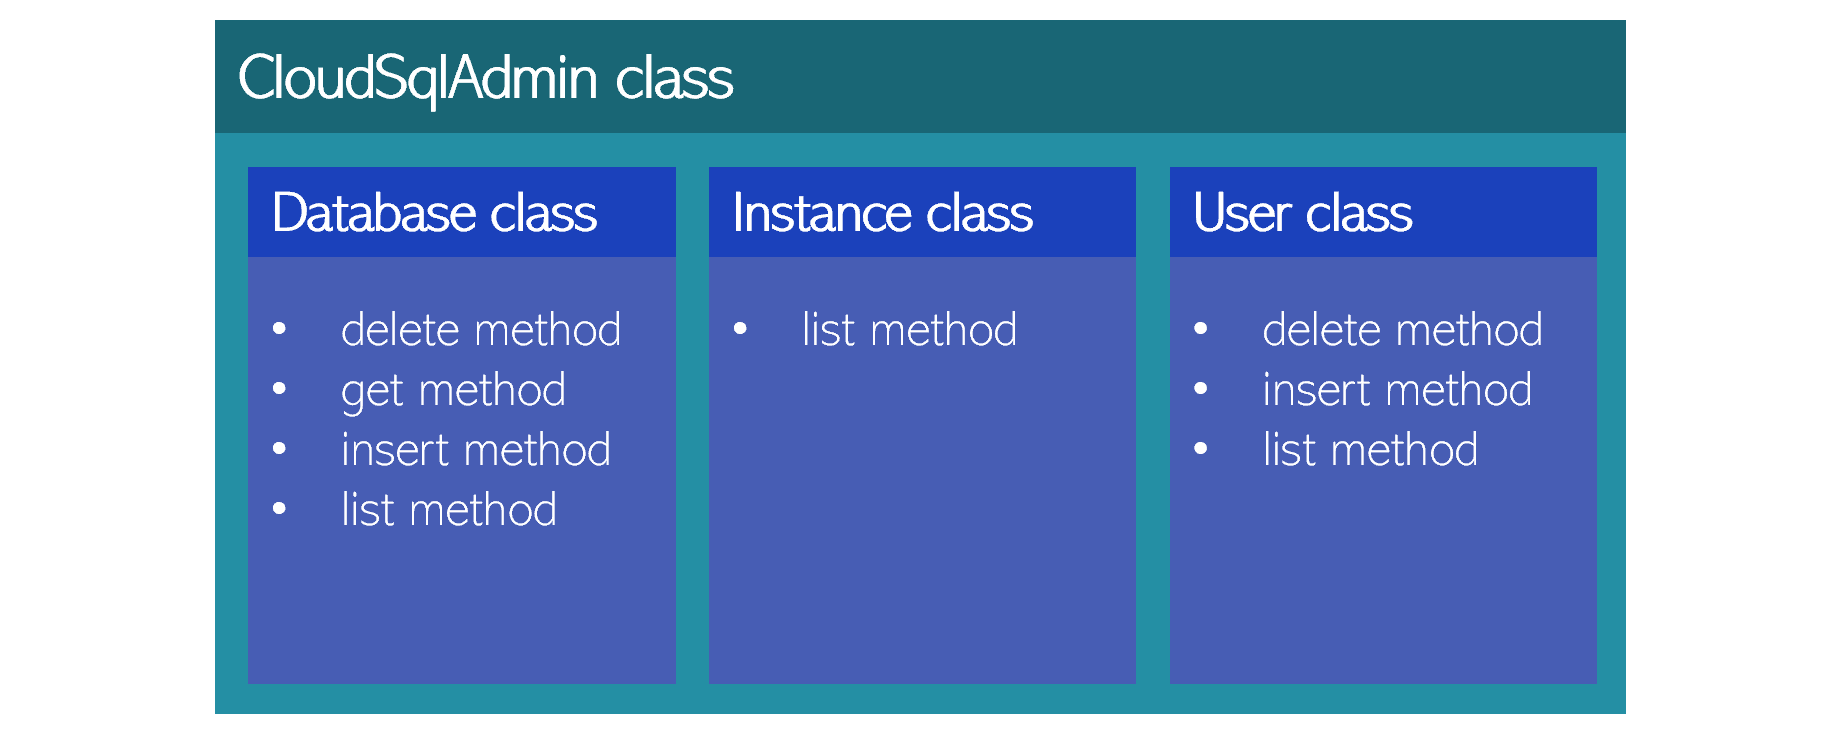
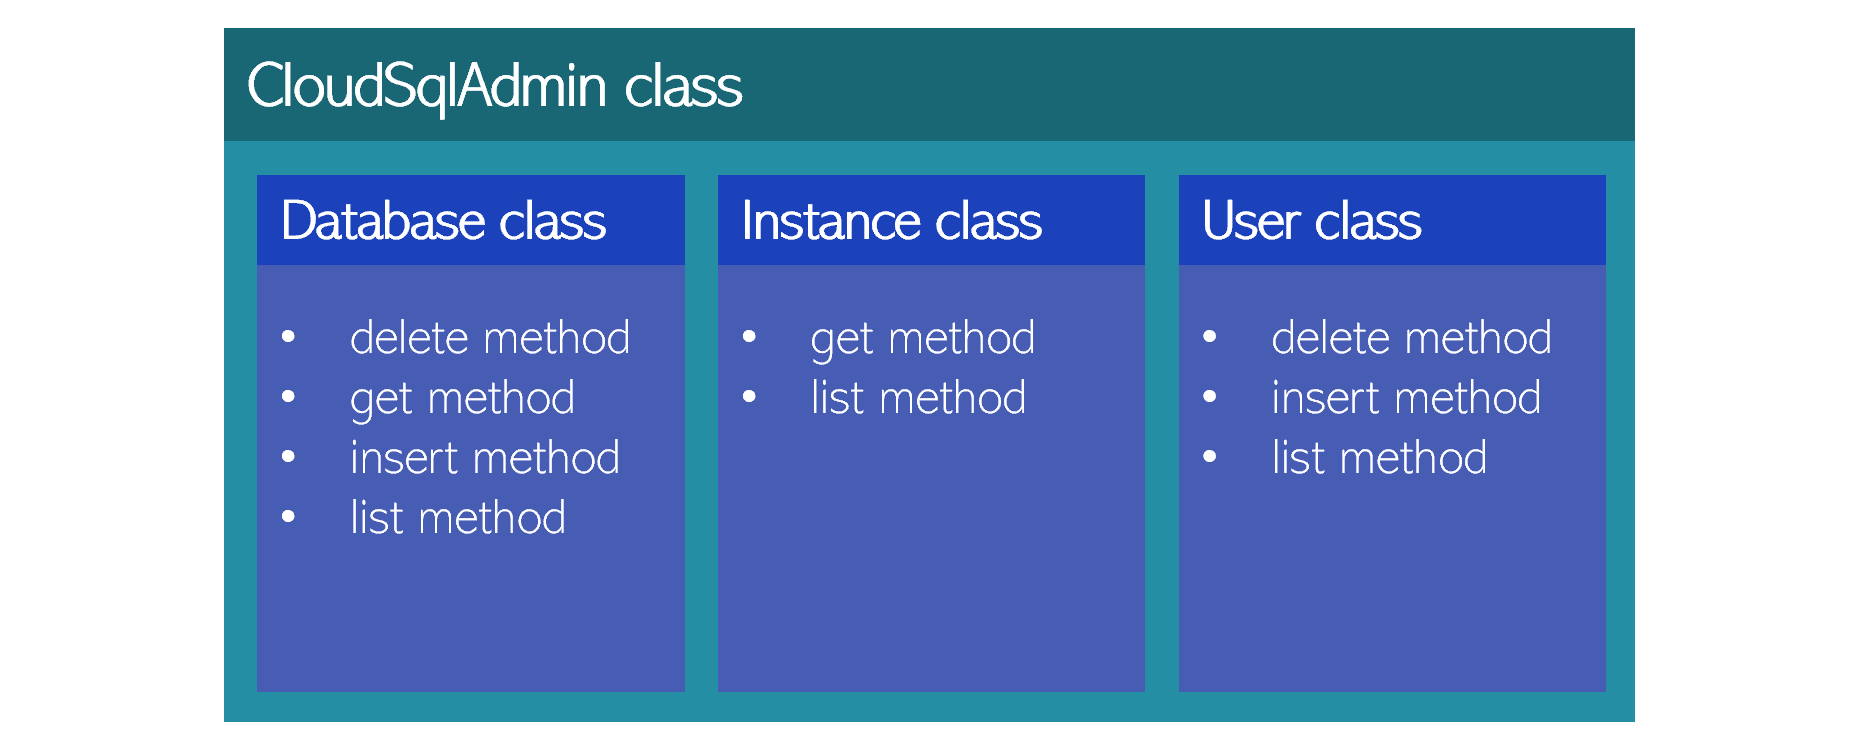
add instance.get() method

diff --git a/samples.py b/samples.py
@@ -39,7 +39,7 @@ def database_get(project: str, instance: str, database: str):
         database: database name
 
     Returns:
-        A dict of metadata about the database.
+        None. Prints the database metadata to the console.
     """
     sql_admin = CloudSqlAdmin()
     metadata = sql_admin.database.get(project, instance, database)
@@ -92,6 +92,23 @@ def database_list(project: str, instance: str):
     sql_admin = CloudSqlAdmin()
     for database in sql_admin.database.list(project, instance):
         print(f"        Database: {database['name']}")
+
+
+def instance_get(project: str, instance: str):
+    """gets metadata for a Cloud SQL instance.
+    Demonstrates use of CloudSqlAdmin.instance.get() method.
+
+    Args:
+        project: name of the Cloud SQL project
+        instance: name of the Cloud SQL instance
+
+    Returns:
+        None. Prints the instance metadata to the console.
+    """
+    sql_admin = CloudSqlAdmin()
+    metadata = sql_admin.instance.get(project, instance)
+    print(f"metadata for project {project}, instance {instance}:")
+    pprint(metadata)
 
 
 def instance_list(project: str):
@@ -218,6 +235,7 @@ if __name__ == "__main__":
     # examples of running the samples:
     # database_insert_delete()
     # database_list(MY_PROJECT, MY_INSTANCE)
+    instance_get(MY_PROJECT, MY_INSTANCE)
     # instance_list(MY_PROJECT)
     # tiers_list(MY_PROJECT)
     # user_insert_delete()

diff --git a/gcsql_admin.py b/gcsql_admin.py
@@ -169,6 +169,26 @@ class Instance:
         """
         self.admin = admin
 
+    def get(self, project: str, instance: str) -> dict:
+        """Get metadata for a Cloud SQL instance.
+
+        Args:
+            project: project name
+            instance: instance name
+
+        Returns:
+            An instance object (dict) as documented here:
+            https://developers.google.com/resources/api-libraries/documentation/sqladmin/v1beta4/python/latest/sqladmin_v1beta4.instances.html#get
+            If an error occurred, the returned dict is empty.
+        """
+        request: googleapiclient.http.HttpRequest
+        request = self.admin.service.instances().get(project=project, instance=instance)
+        try:
+            self.admin.response = request.execute()
+        except googleapiclient.errors.HttpError:
+            self.admin.response = {}
+        return self.admin.response
+
     def list(self, project: str) -> List[dict]:
         """Gets a list of the Cloud SQL instances for a project.
 
